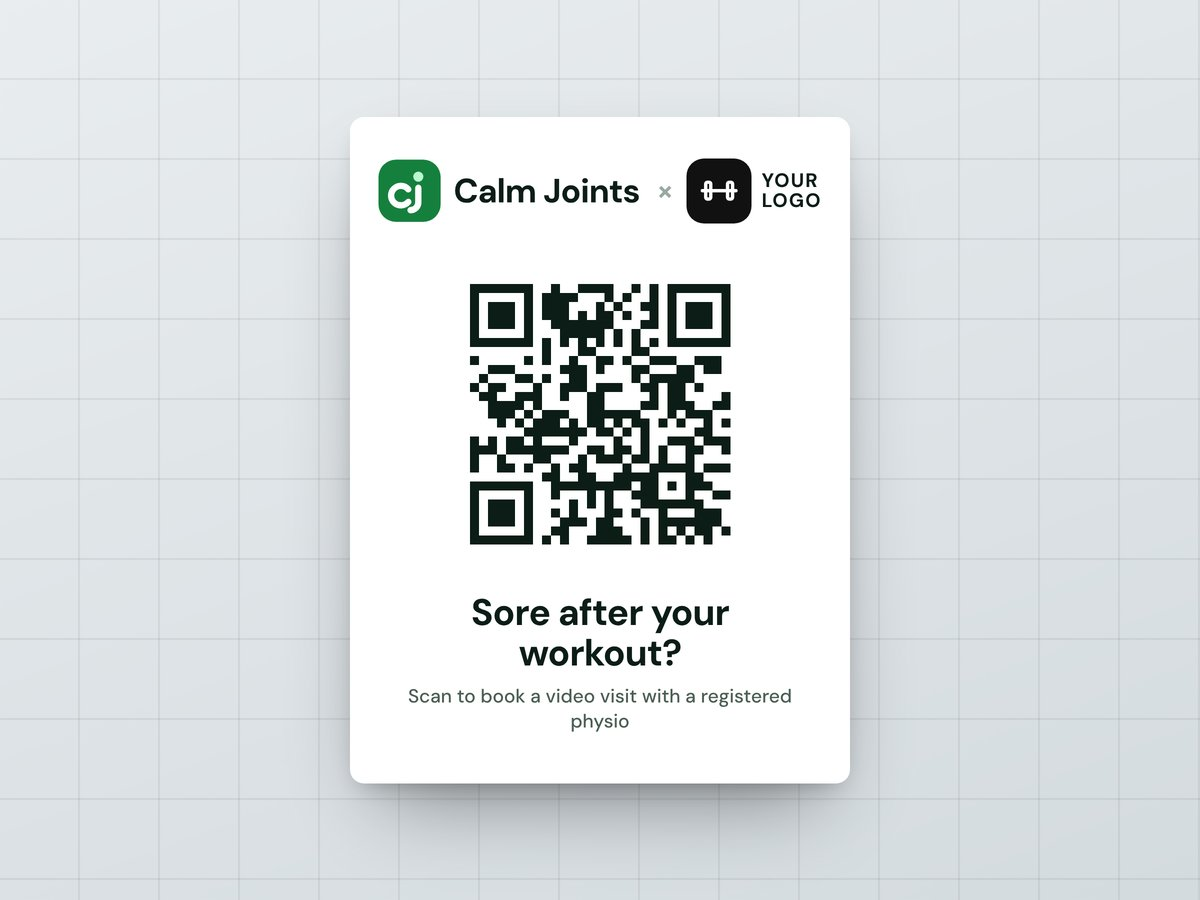
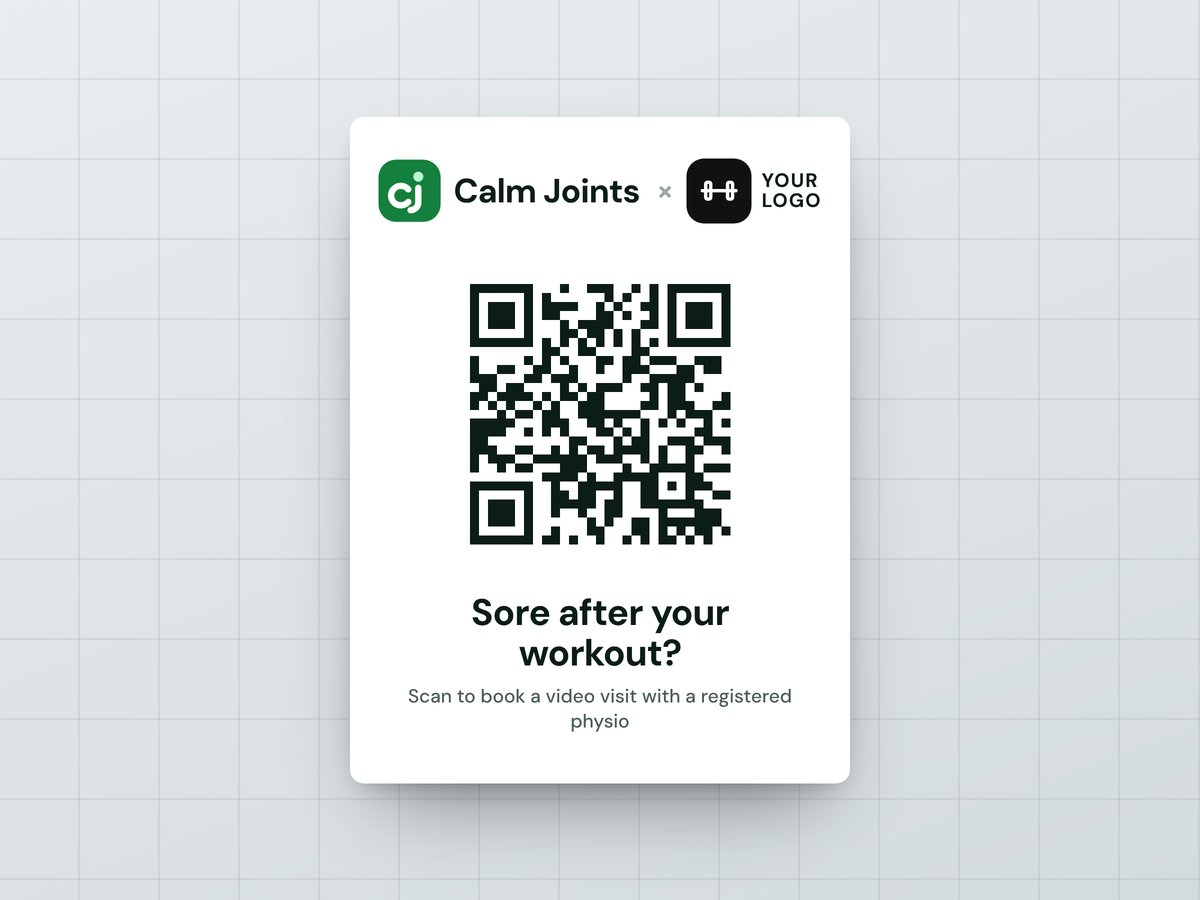
QR flow: sample code opens /p email pop-up; partner ref carried to homepage booking; book clicks logged to CJ + Friday

Changed region(s): [[0.37, 0.3111, 0.555, 0.6222]]

diff --git a/lib/qr-partners.js b/lib/qr-partners.js
@@ -149,25 +149,26 @@ async function createPartner(body, env, ctx = {}) {
 
 async function recordLead(body, env, ctx = {}) {
   const slug = clean(body.slug, 48).toLowerCase();
-  const event = body.event === 'visit' ? 'visit' : 'email';
+  const event = ['visit', 'email', 'book'].includes(body.event) ? body.event : 'email';
   const partner = await getPartner(slug, env);
   if (!partner) return { status: 404, json: { ok: false, message: 'We couldn’t find that partner code.' } };
   const email = clean(body.email, 254).toLowerCase();
   if (event === 'email' && !validEmail(email)) return { status: 400, json: { ok: false, message: 'That email doesn’t look quite right.' } };
   const now = (ctx.now || new Date()).toISOString();
   const id = `${now.replace(/[:.]/g, '-')}-${crypto.randomBytes(3).toString('hex')}`;
-  const rec = { slug, event, email: event === 'email' ? email : null, src: clean(body.src, 20) || 'qr', at: now };
+  const hasEmail = email && validEmail(email);
+  const rec = { slug, event, email: event === 'visit' ? null : (hasEmail ? email : null), src: clean(body.src, 20) || 'qr', at: now };
   await putJson(`qr-leads/${slug}/${event}/${id}.json`, rec, env, false);
-  if (event === 'email') {
+  if (event === 'email' || (event === 'book' && hasEmail)) {
     const friday = {
       externalId: `cj-qrlead-${slug}-${crypto.createHash('sha256').update(email).digest('hex').slice(0, 16)}`,
       email, site: 'calmjoints.org', org: 'calmjoints', source: 'calmjoints_qr_lead', path: `/p/${slug}`, kind: 'form',
-      message: `Came in through partner ${partner.venue} (${slug}) and was connected to booking.`,
-      meta: { partner_slug: slug, partner_venue: partner.venue },
-      tags: ['calmjoints', 'qr-lead', `partner:${slug}`],
+      message: event === 'book' ? `Clicked through to book a visit (partner ${partner.venue}, ${slug}).` : `Came in through partner ${partner.venue} (${slug}) and was connected to booking.`,
+      meta: { partner_slug: slug, partner_venue: partner.venue, qr_event: event },
+      tags: ['calmjoints', 'qr-lead', `partner:${slug}`, ...(event === 'book' ? ['booking-click'] : [])],
     };
     const f = await postFriday(friday, env, ctx.fetchImpl || fetch).catch(() => ({ ok: false }));
-    console.log(`[qr-lead] ${slug} email friday=${f.ok ? 'ok' : 'no'}`);
+    console.log(`[qr-lead] ${slug} ${event} friday=${f.ok ? 'ok' : 'no'}`);
   }
   return { status: 200, json: { ok: true } };
 }

diff --git a/p.html b/p.html
@@ -50,18 +50,19 @@
     try { return fetch('/api/qr-lead', { method: 'POST', headers: { 'Content-Type': 'application/json' }, body: JSON.stringify(body), keepalive: true }).catch(function () {}); }
     catch (e) { return Promise.resolve(); }
   }
-  function go() { location.href = bookUrl; }
+  function remember(email) { try { localStorage.setItem('cj_ref', JSON.stringify({ slug: slug, email: email || null, at: Date.now() })); } catch (e) {} }
+  function go(email) { remember(email); location.href = ok ? '/?ref=' + encodeURIComponent('partner:' + slug) + '#book' : bookUrl; }
   if (!ok) { go(); return; }
   try { var k = 'cj-visit-' + slug; if (!sessionStorage.getItem(k)) { sessionStorage.setItem(k, '1'); post({ slug: slug, event: 'visit', src: src }); } }
   catch (e) { post({ slug: slug, event: 'visit', src: src }); }
-  document.getElementById('skip').addEventListener('click', go);
+  document.getElementById('skip').addEventListener('click', function () { go(); });
   document.getElementById('f').addEventListener('submit', function (e) {
     e.preventDefault();
     var email = document.getElementById('email').value.trim();
     if (!email) { go(); return; }
     if (!/^[^\s@]+@[^\s@]+\.[^\s@]{2,}$/.test(email)) { document.getElementById('msg').textContent = 'That email doesn’t look quite right.'; return; }
     var b = document.getElementById('go'); b.disabled = true; b.textContent = 'Connecting…';
-    Promise.race([post({ slug: slug, event: 'email', email: email, src: src }), new Promise(function (r) { setTimeout(r, 2000); })]).then(go);
+    Promise.race([post({ slug: slug, event: 'email', email: email, src: src }), new Promise(function (r) { setTimeout(r, 2000); })]).then(function () { go(email); });
   });
 })();
 </script>

diff --git a/index.html b/index.html
@@ -443,6 +443,11 @@
 <script>
 (function () {
   var cfg = window.CALM_JOINTS || {};
+  try {
+    var ref = new URLSearchParams(location.search).get('ref') || '';
+    var m = ref.match(/^partner:([a-z0-9-]{3,48})$/);
+    if (m) { var prev = JSON.parse(localStorage.getItem('cj_ref') || 'null'); if (!prev || prev.slug !== m[1]) localStorage.setItem('cj_ref', JSON.stringify({ slug: m[1], email: null, at: Date.now() })); }
+  } catch (e) {}
   var url = (cfg.booking && cfg.booking.primaryUrl) || '';
   var bk = document.getElementById('book-dlg');
   var bkOk = document.getElementById('bk-ok');
@@ -450,7 +455,13 @@
   if (bk) {
     bk.querySelectorAll('[data-close]').forEach(function (b) { b.addEventListener('click', function () { bk.close(); }); });
     bk.addEventListener('click', function (e) { if (e.target === bk) bk.close(); });
-    if (bkOk) bkOk.addEventListener('click', function () { setTimeout(function () { bk.close(); }, 50); });
+    if (bkOk) bkOk.addEventListener('click', function () {
+      try {
+        var r = JSON.parse(localStorage.getItem('cj_ref') || 'null');
+        if (r && r.slug && Date.now() - r.at < 30 * 864e5) fetch('/api/qr-lead', { method: 'POST', headers: { 'Content-Type': 'application/json' }, body: JSON.stringify({ slug: r.slug, event: 'book', email: r.email || '', src: 'home' }), keepalive: true }).catch(function () {});
+      } catch (e) {}
+      setTimeout(function () { bk.close(); }, 50);
+    });
   }
   document.querySelectorAll('[data-book]').forEach(function (el) {
     if (url) { el.href = url; el.target = '_blank'; el.rel = 'noopener noreferrer'; }

diff --git a/scripts/build-partner-scenes.js b/scripts/build-partner-scenes.js
@@ -16,7 +16,7 @@ function qrSvg(text) {
   for (let r = 0; r < n; r++) for (let c = 0; c < n; c++) if (q.isDark(r, c)) d += `M${c} ${r}h1v1h-1z`;
   return `<svg viewBox="-3 -3 ${n + 6} ${n + 6}" shape-rendering="crispEdges"><rect x="-3" y="-3" width="${n + 6}" height="${n + 6}" fill="#fff"/><path d="${d}" fill="#0B1D16"/></svg>`;
 }
-const QR = qrSvg('https://calmjoints.org/partners');
+const QR = qrSvg('https://calmjoints.org/p/sample');
 
 const ICONS = {
   puck: '<ellipse cx="12" cy="10" rx="8" ry="3.2"/><path d="M4 10v4c0 1.8 3.6 3.2 8 3.2s8-1.4 8-3.2v-4"/>',

diff --git a/partners.html b/partners.html
@@ -351,7 +351,7 @@
   d.addEventListener('click', function (e) { if (e.target === d) d.close(); });
 })();
 (function () {
-  var state = { size: 'poster', logo: null, url: 'https://calmjoints.org/partners', slug: null };
+  var state = { size: 'poster', logo: null, url: 'https://calmjoints.org/p/sample', slug: null };
   var canvas = document.getElementById('k-canvas');
   var msg = document.getElementById('k-msg');
   function draw() { return CJKit.render(canvas, state); }
